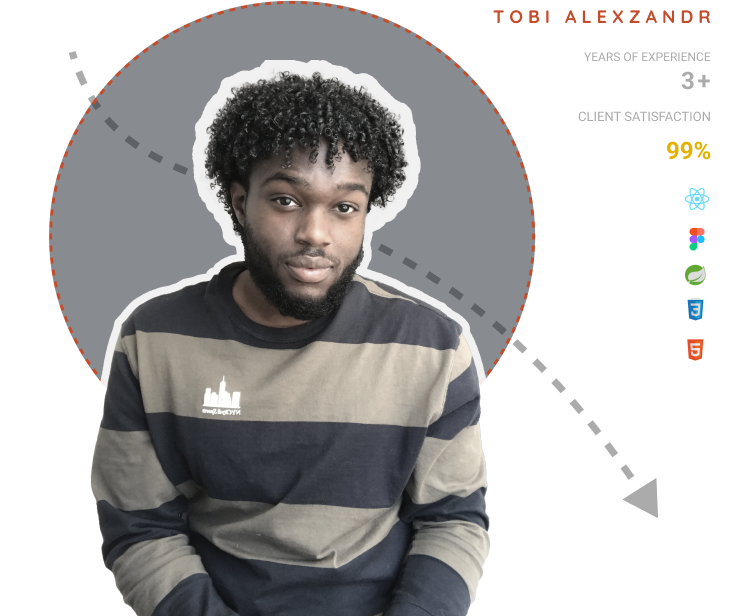
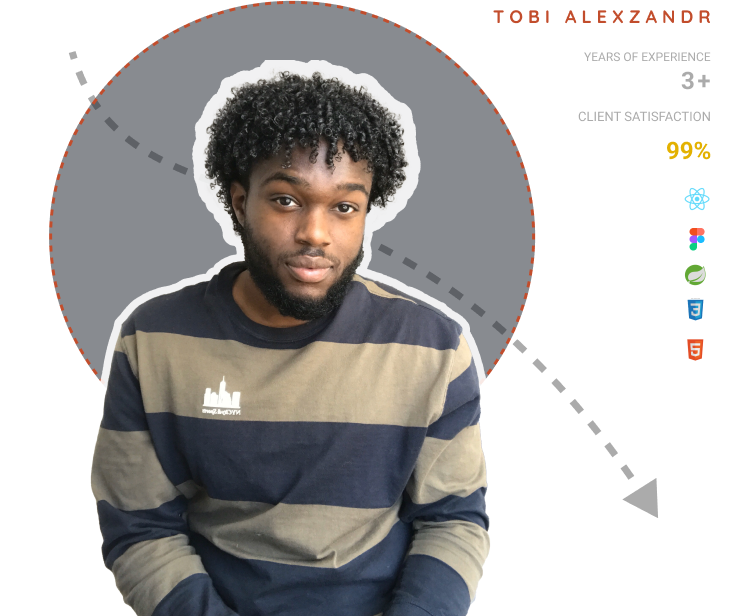
FIX

Changed region(s): [[0.4213, 0.3084, 0.5116, 0.4318], [0.3611, 0.3393, 0.3912, 0.3701]]

diff --git a/public/index.html b/public/index.html
@@ -33,7 +33,7 @@
       work correctly both with client-side routing and a non-root public URL.
       Learn how to configure a non-root public URL by running `npm run build`.
     -->
-    <title>React App</title>
+    <title>TOBI ALEXZANDR</title>
   </head>
   <body>
     <noscript>You need to enable JavaScript to run this app.</noscript>

diff --git a/src/Banner.css b/src/Banner.css
@@ -109,7 +109,7 @@
   align-self: flex-end;
   /* display: inline-block; */
   object-fit: contain;
-  height: 60vh;
+  height: 80vh;
   min-height: 100%;
 }
 
